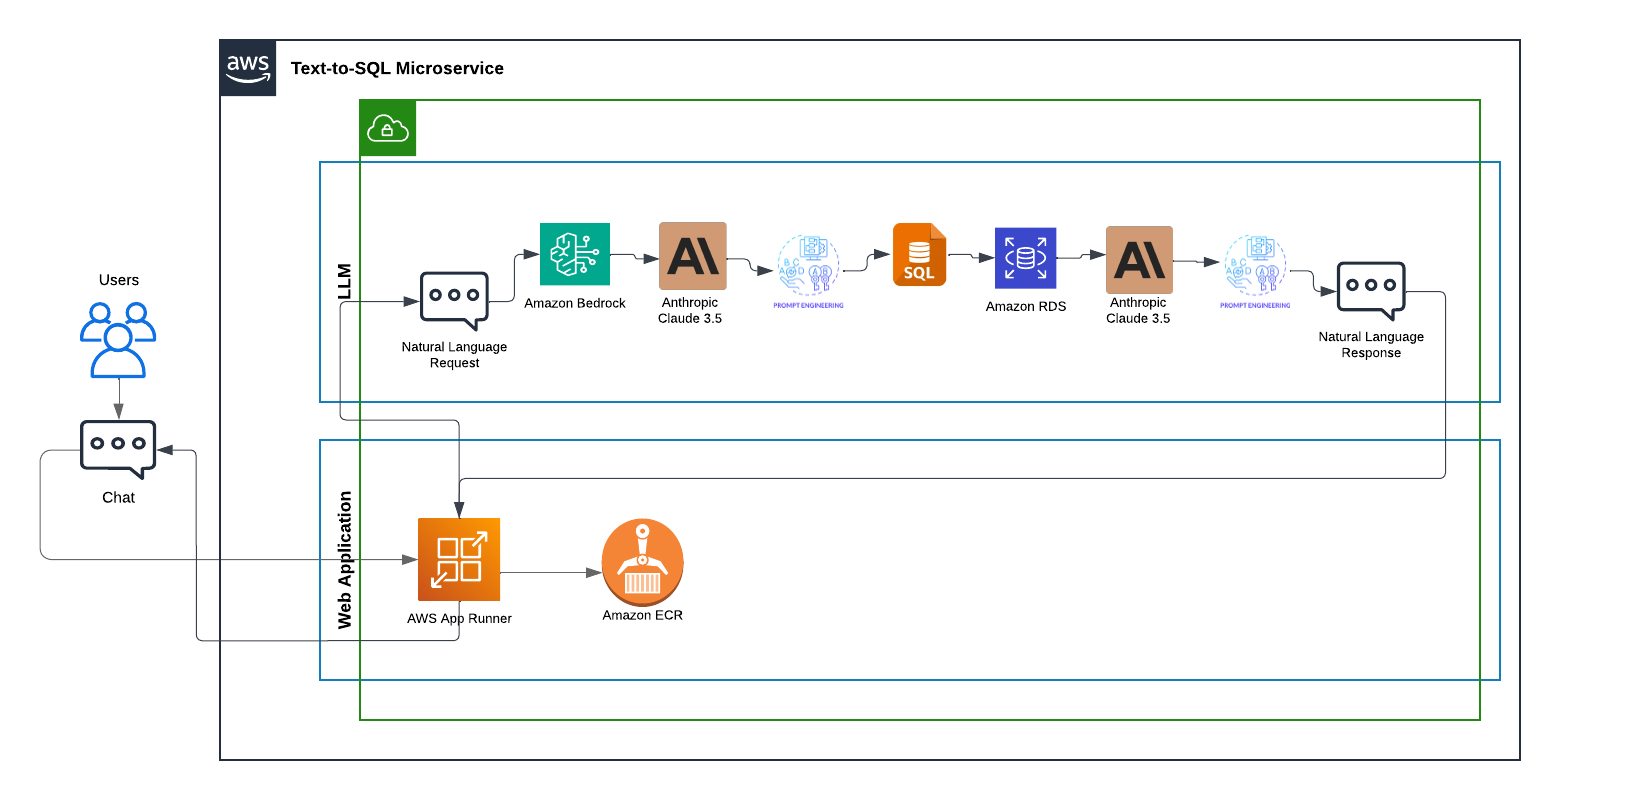
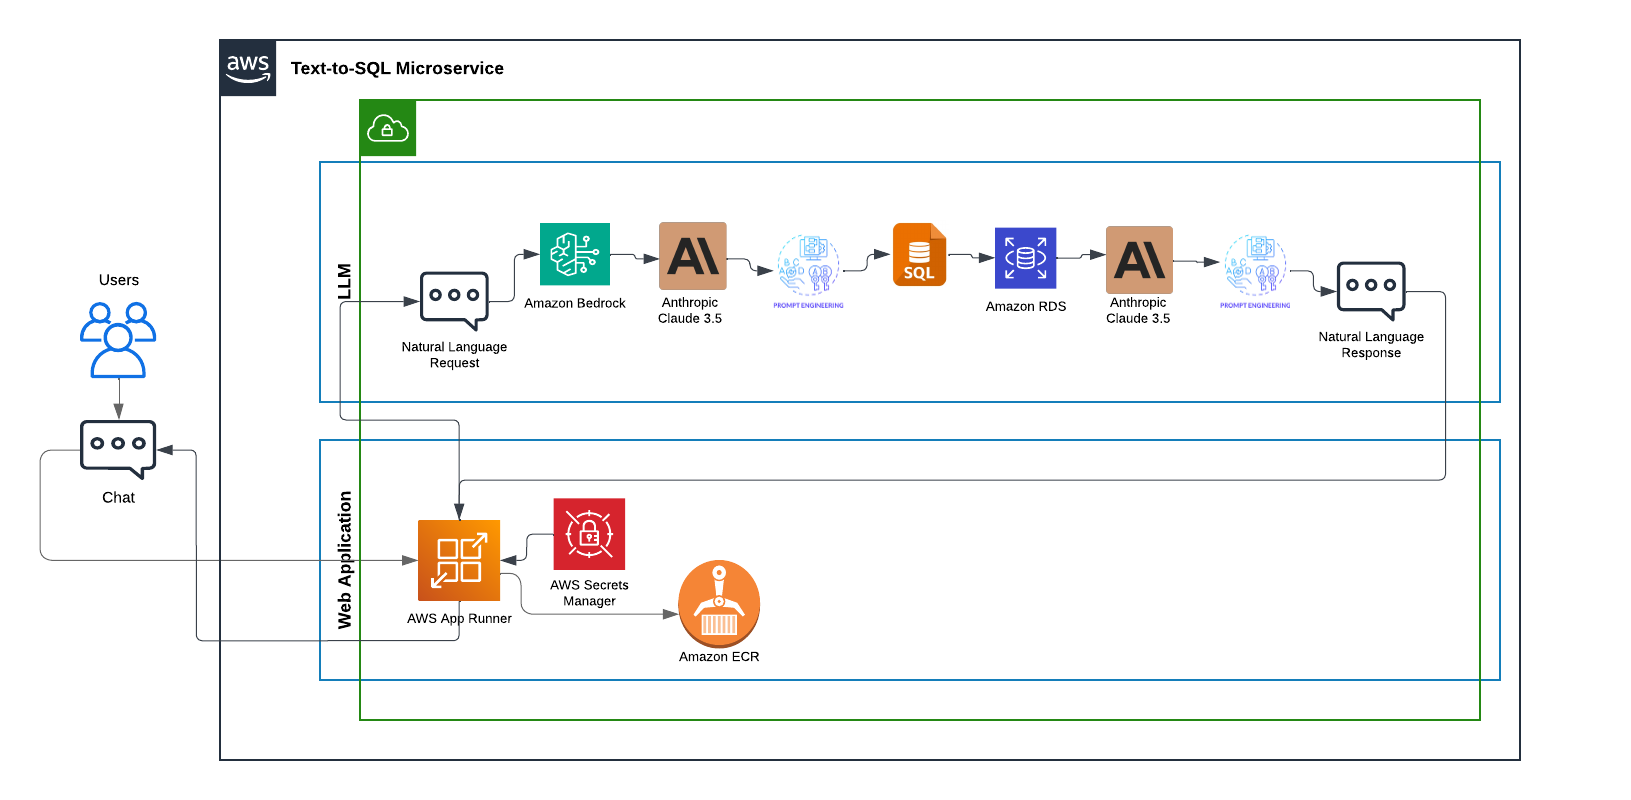
change architecture diagram

Changed region(s): [[0.2452, 0.5938, 0.889, 0.8438]]

diff --git a/README.md b/README.md
@@ -68,11 +68,11 @@ The application architecture is built entirely on AWS, ensuring scalability, rel
 - **AI Model**: Anthropic Claude 3.5 (via AWS Bedrock)
 - **Database**: AWS RDS (MySQL)
 - **Cloud Services**:
-  - AWS [AppRunner](https://us-east-2.console.aws.amazon.com/apprunner/home?region=us-east-2#/services/dashboard?service_arn=arn%3Aaws%3Aapprunner%3Aus-east-2%3A381492212823%3Aservice%2Fflask-auto-tarsl%2F3cac875beec04649847073f24571b2ba&active_tab=logs)
-  - AWS [Elastic Container Registry (ECR)](https://us-east-2.console.aws.amazon.com/ecr/repositories/private/381492212823/flask-app-tarsl?region=us-east-2)
+  - AWS [AppRunner](https://us-east-2.console.aws.amazon.com/apprunner/home?region=us-east-2#/services/dashboard?service_arn=arn%3Aaws%3Aapprunner%3Aus-east-2%3A381492212823%3Aservice%2Fflask-auto-tarsl%2F3cac875beec04649847073f24571b2ba&active_tab=logs): for deploying and scaling containerized web applications without managing servers
+  - AWS [Elastic Container Registry (ECR)](https://us-east-2.console.aws.amazon.com/ecr/repositories/private/381492212823/flask-app-tarsl?region=us-east-2): for storing and deploying Docker container images for use with container orchestration services
   - AWS Bedrock
-  - AWS CloudFormation (IaC)
-  - AWS Secrets Manager
+  - AWS CloudFormation (IaC): for provisioning and managing AWS resources in a safe, repeatable, and predictable way using Infrastructure as Code (IaC) templates.
+  - AWS Secrets Manager: for storing and managing sensitive information like API keys, passwords, and database credentials securely
 - **Load Testing**: Validated with a tool to ensure 10,000 requests per second.
 
 - **CI/CD Pipeline**:
